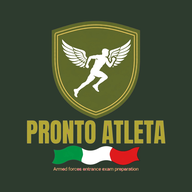
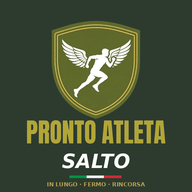
Add files via upload

Changed region(s): [[0.2188, 0.75, 0.75, 1.0]]

diff --git a/index (3).html b/index (3).html
@@ -1,0 +1,189 @@
+<!DOCTYPE html>
+<html lang="it" translate="no" class="notranslate">
+<head>
+<meta charset="UTF-8">
+<meta name="viewport" content="width=device-width,initial-scale=1">
+<meta name="google" content="notranslate">
+<title>Pronto Atleta Salto in Lungo</title>
+<link rel="manifest" href="manifest.json">
+<meta name="theme-color" content="#1a2e1a">
+<meta name="mobile-web-app-capable" content="yes">
+<meta name="apple-mobile-web-app-capable" content="yes">
+<meta name="apple-mobile-web-app-title" content="PA Salto">
+<link rel="apple-touch-icon" href="icon-192.png">
+<style>
+*{box-sizing:border-box}
+body{margin:0;min-height:100vh;display:flex;align-items:center;justify-content:center;background:#0a1a0a;color:#f1efe4;font-family:system-ui,-apple-system,Segoe UI,Roboto,sans-serif}
+.card{width:92%;max-width:400px;background:#1a2e1a;border:2px solid #B8A054;border-radius:20px;padding:28px 22px;text-align:center}
+.card img{width:96px;height:96px;border-radius:18px}
+h1{margin:12px 0 4px;font-size:30px;font-weight:900;letter-spacing:1px;color:#B8A054}
+.sub{margin:0 0 14px;font-size:14px;font-weight:600;color:#DC2626;line-height:1.3}
+.res{margin:6px 0 12px;font-size:16px;font-weight:800;letter-spacing:2px;color:#f59e0b}
+label{display:block;margin-bottom:6px;font-size:14px;opacity:.85}
+input{width:100%;padding:15px;border-radius:10px;border:1px solid #B8A054;background:#000;color:#fff;font-size:18px;text-align:center;text-transform:uppercase}
+button{width:100%;margin-top:14px;padding:15px;border:0;border-radius:10px;background:#B8A054;color:#0a1a0a;font-size:18px;font-weight:800;cursor:pointer}
+button:disabled{opacity:.6;cursor:default}
+#msg{min-height:22px;margin-top:12px;font-size:14px;color:#fca5a5}
+#msg.ok{color:#86efac}
+.small{margin-top:14px;font-size:12px;opacity:.6}
+#inst{background:transparent;border:2px solid #B8A054;color:#B8A054;margin-top:10px}
+.hint{margin-top:10px;font-size:12px;opacity:.75;line-height:1.35}
+</style>
+</head>
+<body class="notranslate">
+<div class="card" id="card">
+  <img src="icon-192.png" alt="Pronto Atleta Salto in Lungo">
+  <h1>PRONTO ATLETA <i style="color:#fff;font-weight:400;font-size:22px">Salto</i></h1>
+  <p class="sub">Preparazione salto in lungo</p>
+  <div class="res">ACCESSO RISERVATO</div>
+  <div id="ios" class="hint" style="font-size:14px;opacity:1;margin:0 0 12px;text-align:left" hidden>
+    <b>Prima installa l’app sul tuo iPhone:</b>
+    <ol style="margin:8px 0 8px 18px;padding:0">
+      <li>Apri questo link con <b>Safari</b>.</li>
+      <li>Tocca il tasto <b>Condividi</b> (il quadrato con la freccia in su).</li>
+      <li>Scegli <b>Aggiungi alla schermata Home</b> e conferma.</li>
+      <li>Apri l’app dall’<b>icona sulla Home</b> e inserisci qui il tuo codice.</li>
+    </ol>
+    <a href="#" id="skip" style="color:#B8A054">Continuo senza installare</a>
+  </div>
+  <div id="form">
+  <label for="code">Codice fornito dal Team Pronto Atleta</label>
+  <input id="code" placeholder="PRONTO-XXXX-XXXX-XXXX" autocomplete="off" autocapitalize="characters" spellcheck="false">
+  <button id="go" type="button">ENTRA</button>
+  </div>
+  <div id="msg" role="status"></div>
+  <button id="inst" type="button" hidden>INSTALLA L’APP</button>
+  <div class="hint" id="hint">Per installare l’app su Android: apri questo link con <b>Chrome</b> (non in modalità incognito e non dentro WhatsApp), tocca i tre puntini in alto a destra e scegli <b>Installa app</b>.</div>
+  <div class="small">Serve una connessione internet al primo accesso. · Salto · Versione 1.0</div>
+</div>
+
+<script>
+(function(){
+  var FN_URL = "https://kgqousgaumploaaeomea.supabase.co/functions/v1/dynamic-service";
+  var KEY    = "sb_publishable_g0HFQhK_a87rRnehKJo52g_qPGsWoel";
+  var OFFLINE_DAYS = 14;      // senza internet l'app si apre per al massimo 14 giorni dall'ultimo controllo
+  var APP_CACHE = "pa-salto-app", APP_KEY = "./__app__";
+
+  function standalone(){ return (window.matchMedia && matchMedia("(display-mode: standalone)").matches) || navigator.standalone === true; }
+  var isIOS = /iphone|ipad|ipod/i.test(navigator.userAgent) || (navigator.platform === "MacIntel" && navigator.maxTouchPoints > 1);
+  var hasCode = false; try{ hasCode = !!localStorage.getItem("pa_salto_gate_code"); }catch(e){}
+  var iosBox = document.getElementById("ios"), formBox = document.getElementById("form"), hintBox = document.getElementById("hint");
+  if(isIOS && !standalone() && !hasCode){ iosBox.hidden = false; formBox.hidden = true; if(hintBox) hintBox.hidden = true; }
+  if(isIOS && hintBox) hintBox.hidden = true;
+  document.getElementById("skip").addEventListener("click", function(e){ e.preventDefault(); iosBox.hidden = true; formBox.hidden = false; });
+  var instBtn = document.getElementById("inst");
+  if(standalone()){ var h0 = document.getElementById("hint"); if(h0) h0.hidden = true; }
+  window.addEventListener("beforeinstallprompt", function(e){ e.preventDefault(); window.__paInstall = e; if(instBtn && !standalone()) instBtn.hidden = false; });
+  if(instBtn) instBtn.addEventListener("click", function(){ var e = window.__paInstall; if(!e) return; e.prompt(); if(e.userChoice) e.userChoice.then(function(){ instBtn.hidden = true; window.__paInstall = null; }); });
+  var msg = document.getElementById("msg"), btn = document.getElementById("go"), inp = document.getElementById("code");
+
+  function say(t, ok){ msg.textContent = t || ""; msg.className = ok ? "ok" : ""; }
+  function ls(k, v){ try{ if(v===undefined) return localStorage.getItem(k); localStorage.setItem(k, v); }catch(e){ return null; } }
+
+  function deviceId(){
+    var d = ls("pa_salto_gate_device");
+    if(!d){
+      d = (window.crypto && crypto.randomUUID) ? crypto.randomUUID()
+        : "d-" + Date.now().toString(36) + "-" + Math.random().toString(36).slice(2, 12);
+      ls("pa_salto_gate_device", d);
+    }
+    return d;
+  }
+
+  var REASONS = {
+    invalid: "Codice non valido. Controlla di averlo scritto per intero.",
+    revoked: "Questo codice è stato disattivato. Contatta il Team Pronto Atleta.",
+    expired: "Questo codice è scaduto. Contatta il Team Pronto Atleta.",
+    device_limit: "Questo codice è già stato usato su un altro dispositivo. Contatta il Team Pronto Atleta.",
+    file_missing: "Servizio non disponibile al momento. Riprova più tardi.",
+    error: "Errore temporaneo. Riprova tra poco."
+  };
+
+  function openApp(html){
+    ls("pronto_salto_activated", "true");   // sblocca la schermata interna dell'app
+    document.open(); document.write(html); document.close();
+  }
+
+  function saveApp(html){
+    try{
+      if(!("caches" in window)) return Promise.resolve();
+      return caches.open(APP_CACHE).then(function(c){
+        return c.put(APP_KEY, new Response(html, {headers:{"Content-Type":"text/html"}}));
+      }).catch(function(){});
+    }catch(e){ return Promise.resolve(); }
+  }
+
+  function loadSaved(){
+    if(!("caches" in window)) return Promise.resolve(null);
+    return caches.open(APP_CACHE).then(function(c){ return c.match(APP_KEY); })
+      .then(function(r){ return r ? r.text() : null; }).catch(function(){ return null; });
+  }
+
+  function ask(code){
+    return fetch(FN_URL, {
+      method: "POST",
+      headers: {"Content-Type":"application/json", "apikey": KEY, "Authorization": "Bearer " + KEY},
+      body: JSON.stringify({code: code, device: deviceId(), app: "salto"})
+    }).then(function(r){ return r.json(); });
+  }
+
+  function submit(code){
+    code = (code || "").trim().toUpperCase();
+    if(!code){ say("Inserisci il codice."); return; }
+    btn.disabled = true; say("Verifica in corso...", true);
+    ask(code).then(function(res){
+      if(res && res.ok && res.html){
+        ls("pa_salto_gate_code", code); ls("pa_salto_gate_last", String(Date.now()));
+        say("Accesso consentito.", true);
+        saveApp(res.html).then(function(){ openApp(res.html); });
+      } else {
+        if(res && (res.reason==="revoked" || res.reason==="expired" || res.reason==="invalid" || res.reason==="device_limit")){
+          ls("pa_salto_gate_code", ""); ls("pa_salto_gate_last", "");
+          if("caches" in window) caches.delete(APP_CACHE);
+        }
+        say((REASONS[(res && res.reason)] || REASONS.error) + ((res && res.reason==='error' && res.detail) ? ' [' + String(res.detail).slice(0,160) + ']' : '')); btn.disabled = false;
+      }
+    }).catch(function(){
+      say("Nessuna connessione. Controlla internet e riprova."); btn.disabled = false;
+    });
+  }
+
+  btn.addEventListener("click", function(){ submit(inp.value); });
+  inp.addEventListener("keydown", function(e){ if(e.key==="Enter") submit(inp.value); });
+
+  // Accessi successivi: ricontrolla il codice online; senza internet usa la copia salvata (max 14 giorni)
+  var saved = ls("pa_salto_gate_code");
+  var qs = new URLSearchParams(location.search).get("code");
+  if(qs) inp.value = qs.toUpperCase();
+
+  if(saved){
+    inp.value = saved; btn.disabled = true; say("Controllo accesso...", true);
+    ask(saved).then(function(res){
+      if(res && res.ok && res.html){
+        ls("pa_salto_gate_last", String(Date.now()));
+        saveApp(res.html).then(function(){ openApp(res.html); });
+      } else {
+        ls("pa_salto_gate_code", ""); ls("pa_salto_gate_last", "");
+        if("caches" in window) caches.delete(APP_CACHE);
+        try{ localStorage.removeItem("pronto_salto_activated"); }catch(e){}
+        say((REASONS[(res && res.reason)] || REASONS.error) + ((res && res.reason==='error' && res.detail) ? ' [' + String(res.detail).slice(0,160) + ']' : '')); btn.disabled = false;
+      }
+    }).catch(function(){
+      var last = parseInt(ls("pa_salto_gate_last") || "0", 10);
+      if(last && (Date.now() - last) < OFFLINE_DAYS*86400000){
+        loadSaved().then(function(h){
+          if(h){ openApp(h); } else { say("Nessuna connessione. Riprova online."); btn.disabled = false; }
+        });
+      } else {
+        say("Nessuna connessione. Collegati a internet per riaccedere."); btn.disabled = false;
+      }
+    });
+  }
+
+  if("serviceWorker" in navigator){
+    window.addEventListener("load", function(){ navigator.serviceWorker.register("./sw.js").catch(function(){}); });
+  }
+})();
+</script>
+</body>
+</html>

diff --git a/index.html b/index.html
@@ -4,12 +4,12 @@
 <meta charset="UTF-8">
 <meta name="viewport" content="width=device-width,initial-scale=1">
 <meta name="google" content="notranslate">
-<title>Pronto Atleta</title>
+<title>Pronto Atleta Salto in Lungo Allenatore</title>
 <link rel="manifest" href="manifest.json">
 <meta name="theme-color" content="#1a2e1a">
 <meta name="mobile-web-app-capable" content="yes">
 <meta name="apple-mobile-web-app-capable" content="yes">
-<meta name="apple-mobile-web-app-title" content="Pronto Atleta">
+<meta name="apple-mobile-web-app-title" content="PA Salto All.">
 <link rel="apple-touch-icon" href="icon-192.png">
 <style>
 *{box-sizing:border-box}
@@ -32,9 +32,9 @@ button:disabled{opacity:.6;cursor:default}
 </head>
 <body class="notranslate">
 <div class="card" id="card">
-  <img src="icon-192.png" alt="Pronto Atleta">
-  <h1>PRONTO ATLETA</h1>
-  <p class="sub">App per preparazione fisica + quiz Concorsi Forze Armate e di Polizia</p>
+  <img src="icon-192.png" alt="Pronto Atleta Salto in Lungo Allenatore">
+  <h1>PRONTO ATLETA <i style="color:#fff;font-weight:400;font-size:22px">Salto</i></h1>
+  <p class="sub">Versione allenatore · salto in lungo</p>
   <div class="res">ACCESSO RISERVATO</div>
   <div id="ios" class="hint" style="font-size:14px;opacity:1;margin:0 0 12px;text-align:left" hidden>
     <b>Prima installa l’app sul tuo iPhone:</b>
@@ -54,7 +54,7 @@ button:disabled{opacity:.6;cursor:default}
   <div id="msg" role="status"></div>
   <button id="inst" type="button" hidden>INSTALLA L’APP</button>
   <div class="hint" id="hint">Per installare l’app su Android: apri questo link con <b>Chrome</b> (non in modalità incognito e non dentro WhatsApp), tocca i tre puntini in alto a destra e scegli <b>Installa app</b>.</div>
-  <div class="small">Serve una connessione internet al primo accesso.</div>
+  <div class="small">Serve una connessione internet al primo accesso. · Allenatore · Versione 1.0</div>
 </div>
 
 <script>
@@ -62,11 +62,11 @@ button:disabled{opacity:.6;cursor:default}
   var FN_URL = "https://kgqousgaumploaaeomea.supabase.co/functions/v1/dynamic-service";
   var KEY    = "sb_publishable_g0HFQhK_a87rRnehKJo52g_qPGsWoel";
   var OFFLINE_DAYS = 14;      // senza internet l'app si apre per al massimo 14 giorni dall'ultimo controllo
-  var APP_CACHE = "pa-app", APP_KEY = "./__app__";
+  var APP_CACHE = "pa-saltocoach-app", APP_KEY = "./__app__";
 
   function standalone(){ return (window.matchMedia && matchMedia("(display-mode: standalone)").matches) || navigator.standalone === true; }
   var isIOS = /iphone|ipad|ipod/i.test(navigator.userAgent) || (navigator.platform === "MacIntel" && navigator.maxTouchPoints > 1);
-  var hasCode = false; try{ hasCode = !!localStorage.getItem("pa_gate_code"); }catch(e){}
+  var hasCode = false; try{ hasCode = !!localStorage.getItem("pa_saltocoach_gate_code"); }catch(e){}
   var iosBox = document.getElementById("ios"), formBox = document.getElementById("form"), hintBox = document.getElementById("hint");
   if(isIOS && !standalone() && !hasCode){ iosBox.hidden = false; formBox.hidden = true; if(hintBox) hintBox.hidden = true; }
   if(isIOS && hintBox) hintBox.hidden = true;
@@ -81,11 +81,11 @@ button:disabled{opacity:.6;cursor:default}
   function ls(k, v){ try{ if(v===undefined) return localStorage.getItem(k); localStorage.setItem(k, v); }catch(e){ return null; } }
 
   function deviceId(){
-    var d = ls("pa_gate_device");
+    var d = ls("pa_saltocoach_gate_device");
     if(!d){
       d = (window.crypto && crypto.randomUUID) ? crypto.randomUUID()
         : "d-" + Date.now().toString(36) + "-" + Math.random().toString(36).slice(2, 12);
-      ls("pa_gate_device", d);
+      ls("pa_saltocoach_gate_device", d);
     }
     return d;
   }
@@ -100,7 +100,7 @@ button:disabled{opacity:.6;cursor:default}
   };
 
   function openApp(html){
-    ls("pronto_atleta_activated", "true");   // sblocca la schermata interna dell'app
+    ls("pronto_saltocoach_activated", "true");   // sblocca la schermata interna dell'app
     document.open(); document.write(html); document.close();
   }
 
@@ -123,7 +123,7 @@ button:disabled{opacity:.6;cursor:default}
     return fetch(FN_URL, {
       method: "POST",
       headers: {"Content-Type":"application/json", "apikey": KEY, "Authorization": "Bearer " + KEY},
-      body: JSON.stringify({code: code, device: deviceId()})
+      body: JSON.stringify({code: code, device: deviceId(), app: "saltocoach"})
     }).then(function(r){ return r.json(); });
   }
 
@@ -133,15 +133,15 @@ button:disabled{opacity:.6;cursor:default}
     btn.disabled = true; say("Verifica in corso...", true);
     ask(code).then(function(res){
       if(res && res.ok && res.html){
-        ls("pa_gate_code", code); ls("pa_gate_last", String(Date.now()));
+        ls("pa_saltocoach_gate_code", code); ls("pa_saltocoach_gate_last", String(Date.now()));
         say("Accesso consentito.", true);
         saveApp(res.html).then(function(){ openApp(res.html); });
       } else {
         if(res && (res.reason==="revoked" || res.reason==="expired" || res.reason==="invalid" || res.reason==="device_limit")){
-          ls("pa_gate_code", ""); ls("pa_gate_last", "");
+          ls("pa_saltocoach_gate_code", ""); ls("pa_saltocoach_gate_last", "");
           if("caches" in window) caches.delete(APP_CACHE);
         }
-        say(REASONS[(res && res.reason)] || REASONS.error); btn.disabled = false;
+        say((REASONS[(res && res.reason)] || REASONS.error) + ((res && res.reason==='error' && res.detail) ? ' [' + String(res.detail).slice(0,160) + ']' : '')); btn.disabled = false;
       }
     }).catch(function(){
       say("Nessuna connessione. Controlla internet e riprova."); btn.disabled = false;
@@ -152,7 +152,7 @@ button:disabled{opacity:.6;cursor:default}
   inp.addEventListener("keydown", function(e){ if(e.key==="Enter") submit(inp.value); });
 
   // Accessi successivi: ricontrolla il codice online; senza internet usa la copia salvata (max 14 giorni)
-  var saved = ls("pa_gate_code");
+  var saved = ls("pa_saltocoach_gate_code");
   var qs = new URLSearchParams(location.search).get("code");
   if(qs) inp.value = qs.toUpperCase();
 
@@ -160,16 +160,16 @@ button:disabled{opacity:.6;cursor:default}
     inp.value = saved; btn.disabled = true; say("Controllo accesso...", true);
     ask(saved).then(function(res){
       if(res && res.ok && res.html){
-        ls("pa_gate_last", String(Date.now()));
+        ls("pa_saltocoach_gate_last", String(Date.now()));
         saveApp(res.html).then(function(){ openApp(res.html); });
       } else {
-        ls("pa_gate_code", ""); ls("pa_gate_last", "");
+        ls("pa_saltocoach_gate_code", ""); ls("pa_saltocoach_gate_last", "");
         if("caches" in window) caches.delete(APP_CACHE);
-        try{ localStorage.removeItem("pronto_atleta_activated"); }catch(e){}
-        say(REASONS[(res && res.reason)] || REASONS.error); btn.disabled = false;
+        try{ localStorage.removeItem("pronto_saltocoach_activated"); }catch(e){}
+        say((REASONS[(res && res.reason)] || REASONS.error) + ((res && res.reason==='error' && res.detail) ? ' [' + String(res.detail).slice(0,160) + ']' : '')); btn.disabled = false;
       }
     }).catch(function(){
-      var last = parseInt(ls("pa_gate_last") || "0", 10);
+      var last = parseInt(ls("pa_saltocoach_gate_last") || "0", 10);
       if(last && (Date.now() - last) < OFFLINE_DAYS*86400000){
         loadSaved().then(function(h){
           if(h){ openApp(h); } else { say("Nessuna connessione. Riprova online."); btn.disabled = false; }

diff --git a/sw.js b/sw.js
@@ -1,4 +1,4 @@
-const CACHE = 'pronto-atleta-gate-v1';
+const CACHE = 'pronto-atleta-saltocoach-v1';
 const FILES = ['./', './index.html', './manifest.json', './icon-192.png', './icon-512.png'];
 
 self.addEventListener('install', e => {
@@ -8,21 +8,14 @@ self.addEventListener('install', e => {
 self.addEventListener('activate', e => {
   e.waitUntil(
     caches.keys()
-      .then(keys => Promise.all(keys.filter(k => k !== CACHE && k !== 'pa-app').map(k => caches.delete(k))))
+      .then(keys => Promise.all(keys.filter(k => k !== CACHE).map(k => caches.delete(k))))
       .then(() => self.clients.claim())
   );
 });
 
-// Solo file della pagina d'ingresso. Le richieste verso Supabase non passano da qui.
 self.addEventListener('fetch', e => {
   if (e.request.method !== 'GET') return;
-  if (new URL(e.request.url).origin !== self.location.origin) return;
   e.respondWith(
-    fetch(e.request)
-      .then(r => {
-        if (r && r.ok) { const copy = r.clone(); caches.open(CACHE).then(c => c.put(e.request, copy)).catch(() => {}); }
-        return r;
-      })
-      .catch(() => caches.match(e.request).then(r => r || caches.match('./index.html')))
+    fetch(e.request).catch(() => caches.match(e.request).then(r => r || caches.match('./index.html')))
   );
 });

diff --git a/sw (5).js b/sw (5).js
@@ -1,0 +1,21 @@
+const CACHE = 'pronto-atleta-salto-v1';
+const FILES = ['./', './index.html', './manifest.json', './icon-192.png', './icon-512.png'];
+
+self.addEventListener('install', e => {
+  e.waitUntil(caches.open(CACHE).then(c => c.addAll(FILES)).then(() => self.skipWaiting()));
+});
+
+self.addEventListener('activate', e => {
+  e.waitUntil(
+    caches.keys()
+      .then(keys => Promise.all(keys.filter(k => k !== CACHE).map(k => caches.delete(k))))
+      .then(() => self.clients.claim())
+  );
+});
+
+self.addEventListener('fetch', e => {
+  if (e.request.method !== 'GET') return;
+  e.respondWith(
+    fetch(e.request).catch(() => caches.match(e.request).then(r => r || caches.match('./index.html')))
+  );
+});
